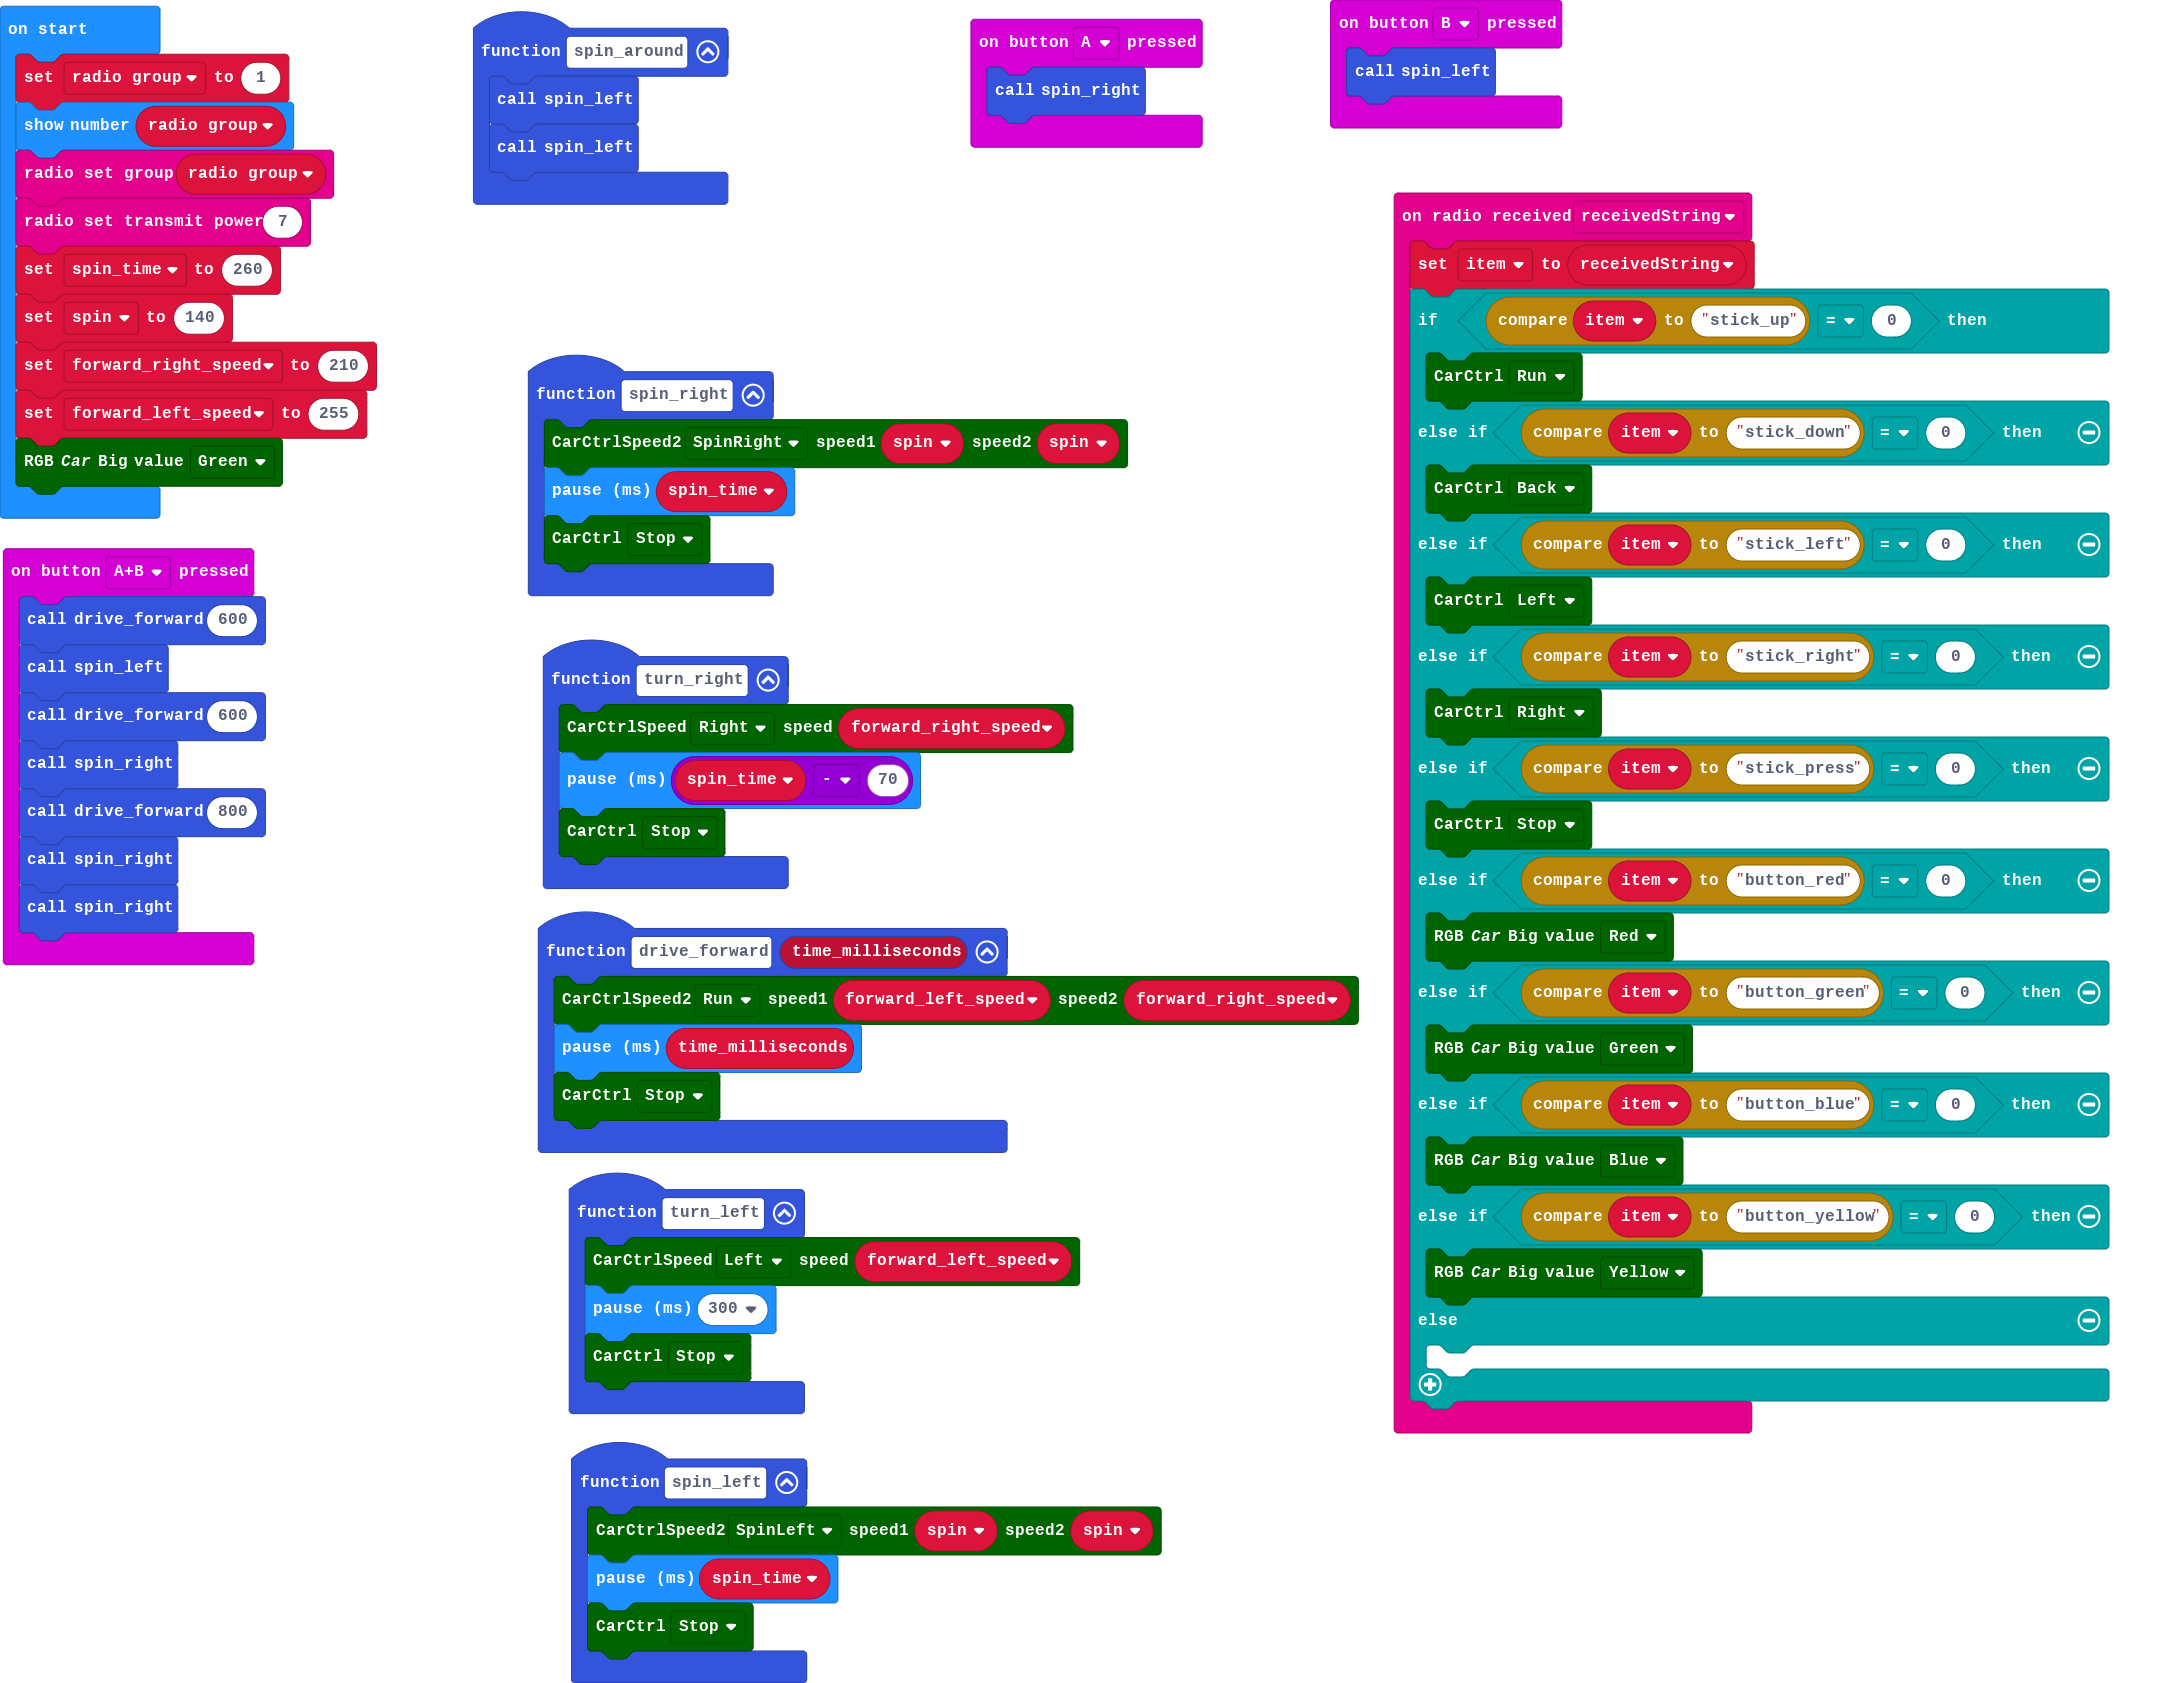
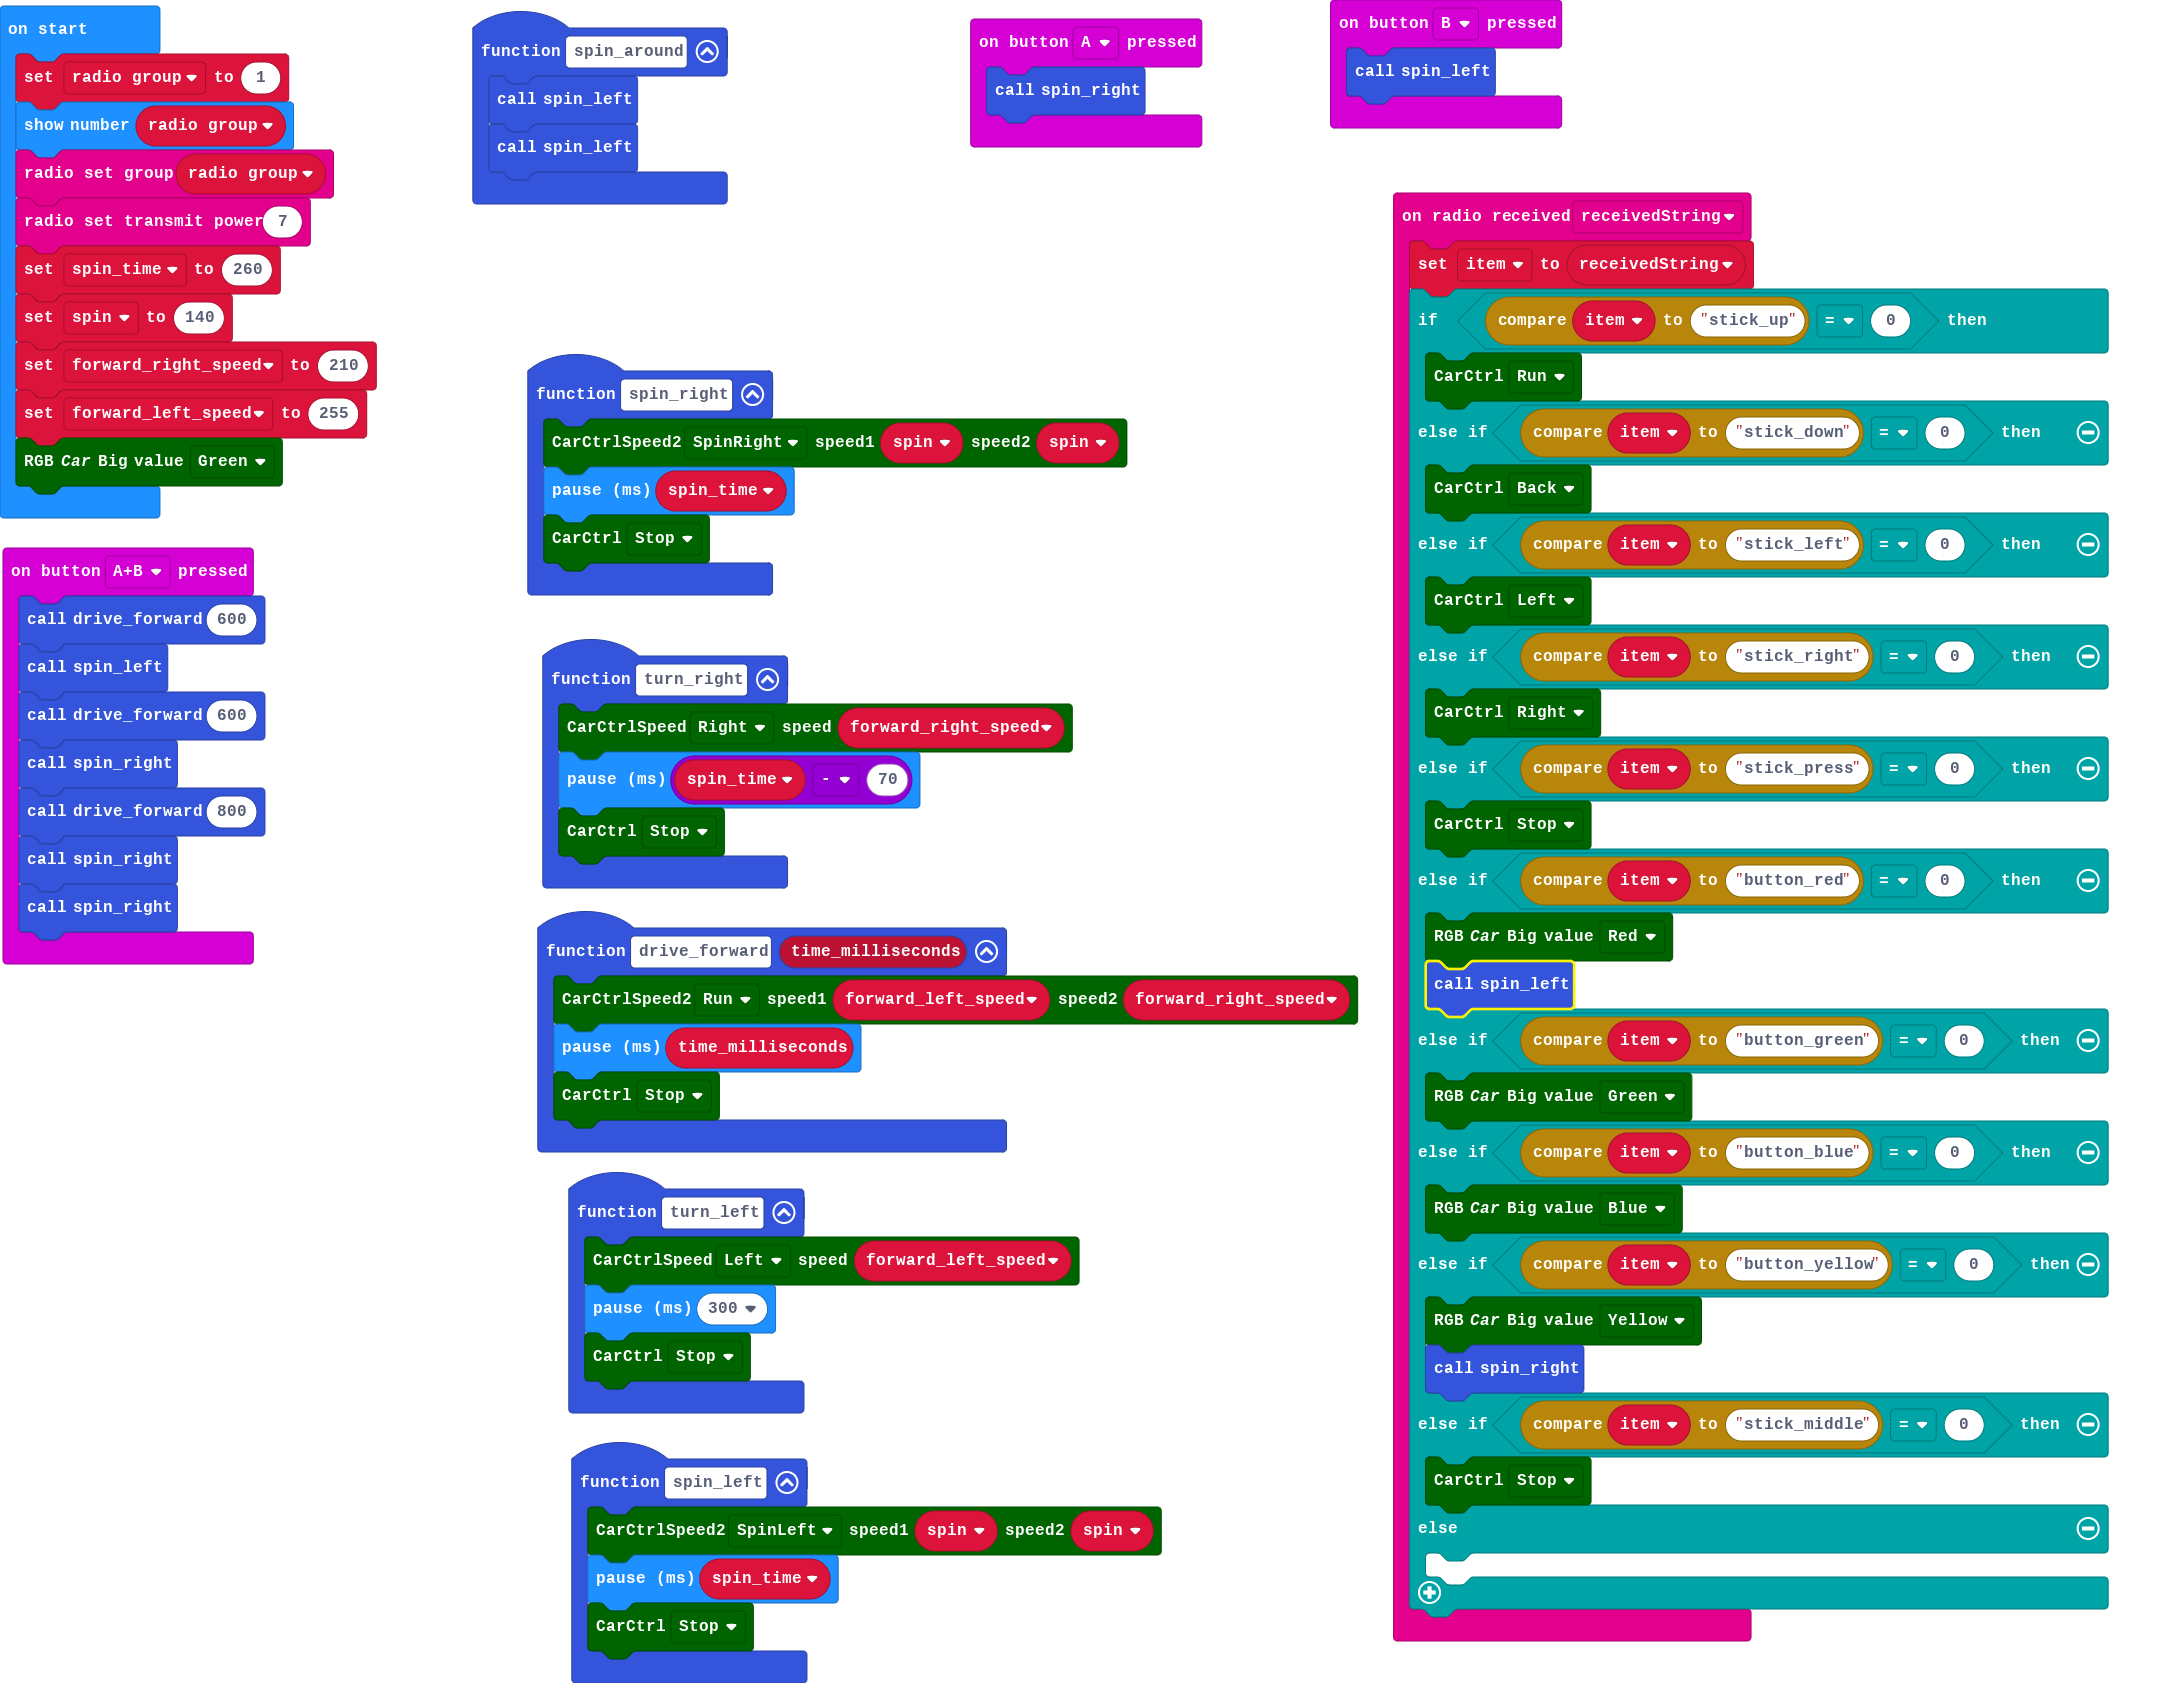
Update main.blocks, main.ts

diff --git a/main.ts b/main.ts
@@ -51,12 +51,16 @@ radio.onReceivedStringDeprecated(function (receivedString) {
         Tinybit.CarCtrl(Tinybit.CarState.Car_Stop)
     } else if (item.compare("button_red") == 0) {
         Tinybit.RGB_Car_Big(Tinybit.enColor.Red)
+        spin_left()
     } else if (item.compare("button_green") == 0) {
         Tinybit.RGB_Car_Big(Tinybit.enColor.Green)
     } else if (item.compare("button_blue") == 0) {
         Tinybit.RGB_Car_Big(Tinybit.enColor.Blue)
     } else if (item.compare("button_yellow") == 0) {
         Tinybit.RGB_Car_Big(Tinybit.enColor.Yellow)
+        spin_right()
+    } else if (item.compare("stick_middle") == 0) {
+        Tinybit.CarCtrl(Tinybit.CarState.Car_Stop)
     } else {
     	
     }
